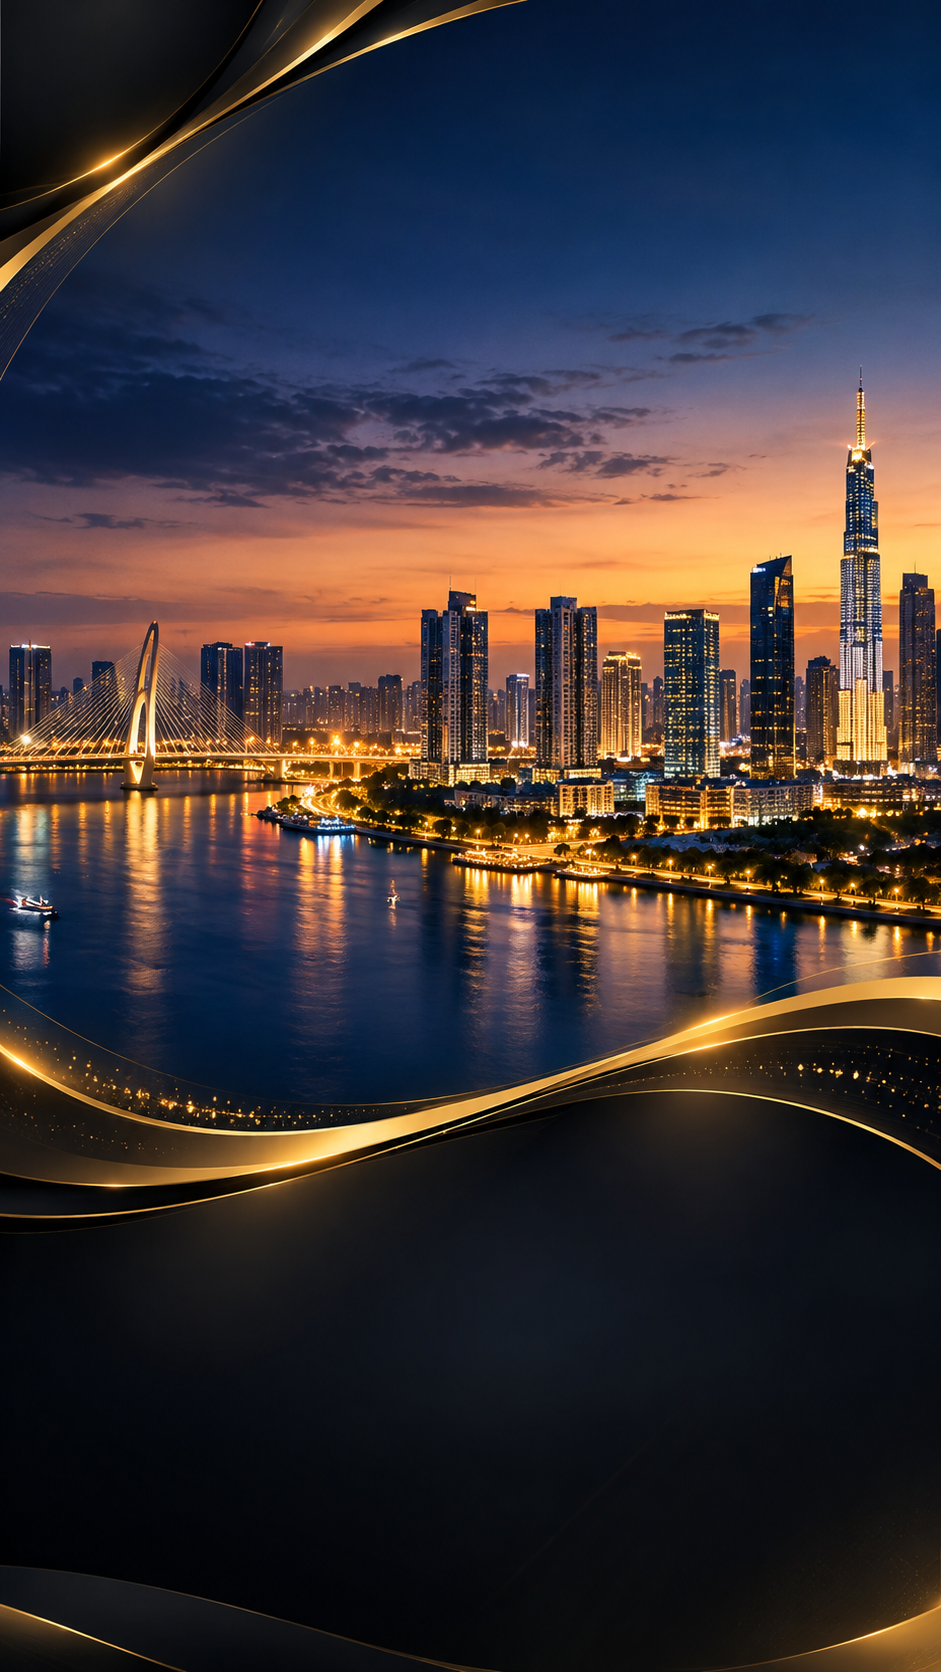
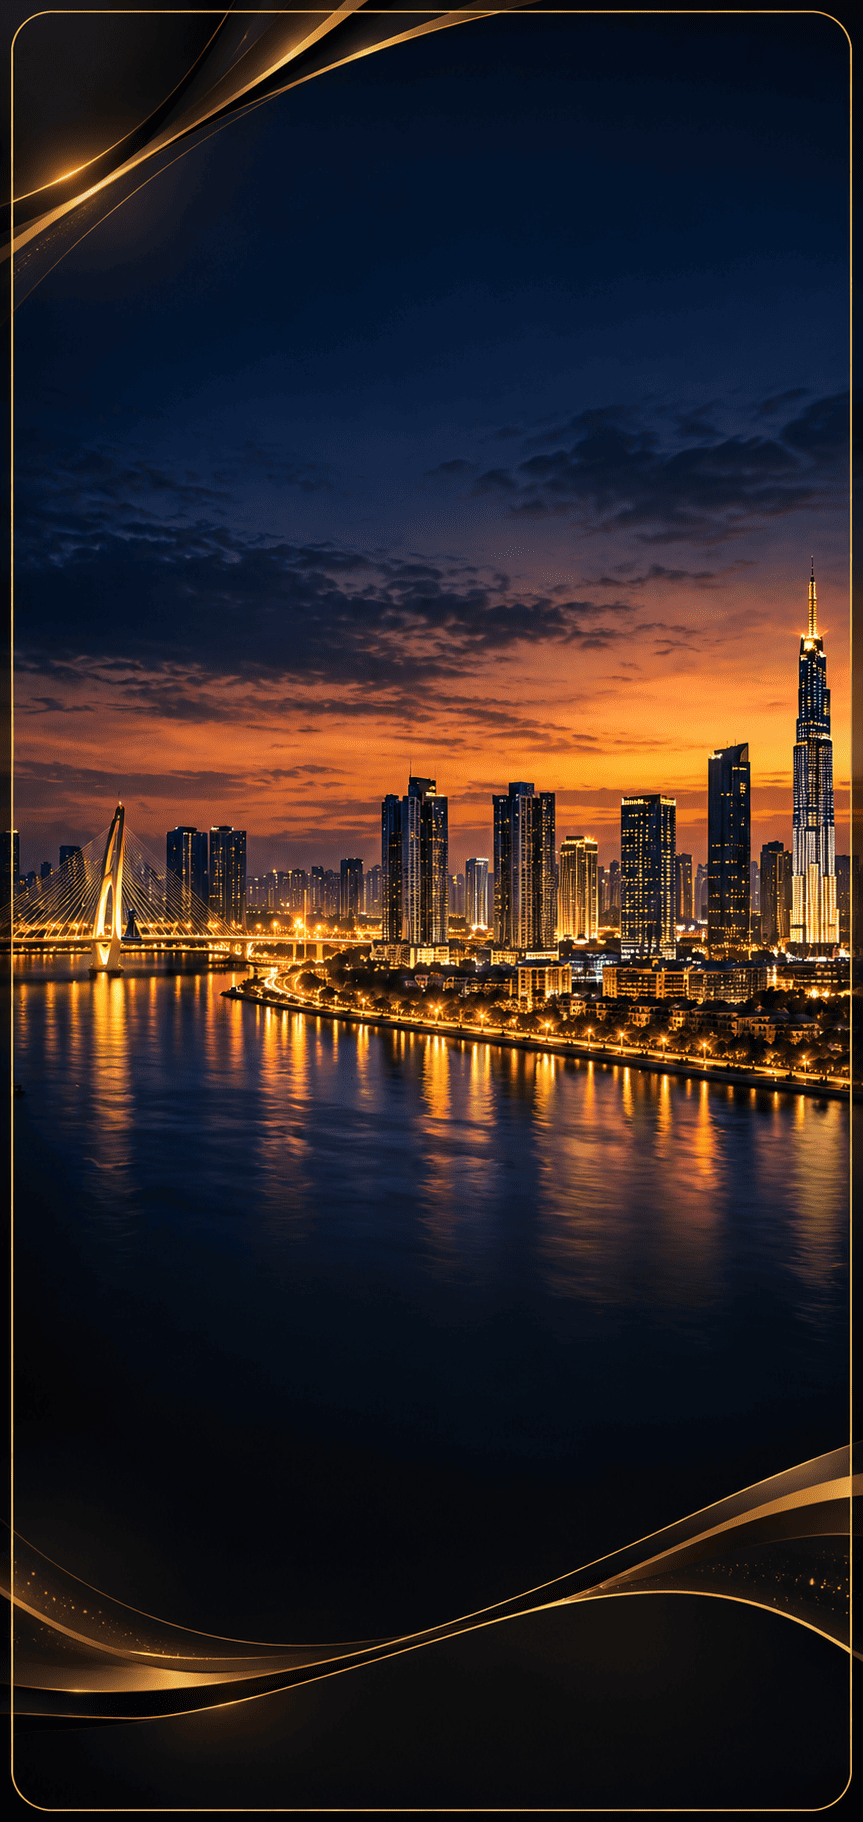
bio

diff --git a/bio/bio.css b/bio/bio.css
@@ -1,10 +1,10 @@
 :root {
     color-scheme: dark;
-    --bio-gold: #e6b942;
-    --bio-gold-bright: #ffd76b;
-    --bio-paper: #f7f1e4;
-    --bio-muted: #b7ad98;
-    --bio-panel: rgba(8, 8, 8, .94);
+    --bio-gold: #d4af37;
+    --bio-gold-bright: #f4d06f;
+    --bio-paper: #f4efe3;
+    --bio-muted: #d6cbbb;
+    --bio-panel: rgba(0, 0, 0, .96);
 }
 
 * {
@@ -19,8 +19,8 @@ body {
     place-items: center;
     overflow-x: hidden;
     color: var(--bio-paper);
-    font-family: 'DM Sans', sans-serif;
-    background: #090909;
+    font-family: 'Be Vietnam Pro', sans-serif;
+    background: #000;
 }
 
 .bio-card {
@@ -29,13 +29,13 @@ body {
     width: min(100%, 460px);
     padding: 18px 13px 14px;
     overflow: hidden;
-    border: 1px solid rgba(230, 185, 66, .52);
+    border: 1px solid rgba(212, 175, 55, .7);
     border-radius: 25px;
     background:
-        linear-gradient(rgba(7, 7, 7, .42), rgba(7, 7, 7, .58)),
+        linear-gradient(rgba(0, 0, 0, .68), rgba(0, 0, 0, .8)),
         url('../images/bio.png') center / cover no-repeat,
         var(--bio-panel);
-    box-shadow: 0 25px 90px rgba(0, 0, 0, .68), 0 0 30px rgba(230, 185, 66, .11);
+    box-shadow: 0 25px 90px rgba(0, 0, 0, .68), 0 0 22px rgba(212, 175, 55, .08);
     text-align: center;
 }
 
@@ -47,14 +47,14 @@ body {
     bottom: -34px;
     left: -15%;
     height: 72px;
-    border-top: 1px solid rgba(230, 185, 66, .48);
+    border-top: 1px solid rgba(212, 175, 55, .62);
     border-radius: 50% 50% 0 0;
     content: '';
 }
 
 .bio-card::after {
     bottom: -43px;
-    border-color: rgba(230, 185, 66, .24);
+    border-color: rgba(212, 175, 55, .38);
 }
 
 .profile {
@@ -87,7 +87,7 @@ body {
 }
 
 .brand strong {
-    font: 800 .66rem 'Manrope', sans-serif;
+    font: 800 .66rem 'Be Vietnam Pro', sans-serif;
     letter-spacing: .06em;
 }
 
@@ -104,7 +104,7 @@ body {
     right: 7px;
     margin: 0;
     color: var(--bio-gold-bright);
-    font: italic 600 .78rem/1.35 'Manrope', sans-serif;
+    font: italic 600 .78rem/1.35 'Be Vietnam Pro', sans-serif;
     text-align: right;
 }
 
@@ -116,8 +116,8 @@ body {
     padding: 4px;
     border: 2px solid var(--bio-gold-bright);
     border-radius: 50%;
-    background: #080808;
-    box-shadow: 0 0 0 3px rgba(230, 185, 66, .18), 0 0 28px rgba(230, 185, 66, .32);
+    background: #000;
+    box-shadow: 0 0 0 3px rgba(212, 175, 55, .3), 0 0 14px rgba(212, 175, 55, .18);
 }
 
 .avatar {
@@ -128,26 +128,10 @@ body {
     object-fit: cover;
 }
 
-.verified {
-    position: absolute;
-    right: -4px;
-    bottom: 10px;
-    display: grid;
-    width: 22px;
-    height: 22px;
-    place-items: center;
-    border: 2px solid #080808;
-    border-radius: 50%;
-    background: #1288f5;
-    color: #fff;
-    font-size: .78rem;
-    font-weight: 800;
-}
-
 h1 {
     margin: 0;
-    color: #fff;
-    font: 800 clamp(1.45rem, 6vw, 1.8rem)/1.15 'Manrope', sans-serif;
+    color: var(--bio-paper);
+    font: 700 clamp(1.65rem, 6vw, 2rem)/1.1 'Cormorant Garamond', serif;
     letter-spacing: -.045em;
 }
 
@@ -165,7 +149,7 @@ h1 {
 
 .intro {
     margin: 0 0 9px;
-    color: #e2d4b5;
+    color: var(--bio-muted);
     font-size: .73rem;
 }
 
@@ -174,8 +158,8 @@ h1 {
     grid-template-columns: repeat(4, minmax(0, 1fr));
     gap: 4px;
     padding: 9px 1px;
-    border-top: 1px solid rgba(230, 185, 66, .2);
-    border-bottom: 1px solid rgba(230, 185, 66, .2);
+    border-top: 1px solid rgba(212, 175, 55, .42);
+    border-bottom: 1px solid rgba(212, 175, 55, .42);
 }
 
 .service-point {
@@ -193,7 +177,7 @@ h1 {
 
 .service-point small {
     color: var(--bio-muted);
-    font-size: .52rem;
+    font-size: .57rem;
     line-height: 1.3;
 }
 
@@ -202,9 +186,9 @@ h1 {
     grid-template-columns: repeat(3, minmax(0, 1fr));
     margin: 10px 0;
     padding: 7px 3px;
-    border: 1px solid rgba(230, 185, 66, .48);
+    border: 1px solid rgba(212, 175, 55, .62);
     border-radius: 13px;
-    background: linear-gradient(110deg, rgba(230, 185, 66, .16), rgba(255, 255, 255, .025));
+    background: linear-gradient(110deg, rgba(212, 175, 55, .2), rgba(255, 255, 255, .06));
 }
 
 .stat {
@@ -217,7 +201,7 @@ h1 {
 }
 
 .stat + .stat {
-    border-left: 1px solid rgba(230, 185, 66, .22);
+    border-left: 1px solid rgba(212, 175, 55, .38);
 }
 
 .stat-icon {
@@ -228,7 +212,7 @@ h1 {
 
 .stat strong {
     color: var(--bio-gold-bright);
-    font: 800 .93rem 'Manrope', sans-serif;
+    font: 800 .93rem 'Be Vietnam Pro', sans-serif;
     text-align: left;
 }
 
@@ -252,10 +236,10 @@ h1 {
     align-items: center;
     gap: 7px;
     padding: 5px 10px;
-    border: 1px solid rgba(230, 185, 66, .45);
+    border: 1px solid rgba(212, 175, 55, .45);
     border-radius: 999px;
-    background: linear-gradient(100deg, #f8c744, #d69a16);
-    color: #18120a;
+    background: linear-gradient(110deg, #d4af37, #b8882c);
+    color: #111;
     font-size: .75rem;
     font-weight: 800;
     text-decoration: none;
@@ -291,14 +275,32 @@ h1 {
 
 .link-phone,
 .link-website {
-    border-color: rgba(255, 255, 255, .2);
-    background: linear-gradient(100deg, #242424, #090909);
-    color: #f4efe3;
+    border-color: rgba(212, 175, 55, .28);
+    background: linear-gradient(100deg, #181818, #050505);
+    color: var(--bio-paper);
+}
+
+.link-zalo {
+    border-color: rgba(212, 175, 55, .45);
+    background: linear-gradient(110deg, #d4af37, #b8882c);
+    color: #111;
+}
+
+.link-phone {
+    border-color: #25a244;
+    background: linear-gradient(100deg, #34c759, #248a3d);
+    color: #fff;
+}
+
+.link-website {
+    border-color: #fff;
+    background: linear-gradient(100deg, #fff, #e8e8e8);
+    color: #111;
 }
 
 .link-facebook {
-    border-color: #1687ff;
-    background: linear-gradient(100deg, #0879f9, #064bbd);
+    border-color: #1877f2;
+    background: linear-gradient(100deg, #3191ff, #1877f2);
     color: #fff;
 }
 
@@ -312,7 +314,7 @@ h1 {
     gap: 6px;
     margin: 0 0 6px;
     color: var(--bio-gold-bright);
-    font: 800 .65rem 'Manrope', sans-serif;
+    font: 800 .65rem 'Be Vietnam Pro', sans-serif;
     letter-spacing: .14em;
     text-transform: uppercase;
 }
@@ -321,7 +323,7 @@ h1 {
 .section-label::after {
     height: 1px;
     flex: 1;
-    background: linear-gradient(90deg, transparent, rgba(230, 185, 66, .58));
+    background: linear-gradient(90deg, transparent, rgba(212, 175, 55, .82));
     content: '';
 }
 
@@ -342,11 +344,11 @@ h1 {
 .project {
     min-width: 0;
     overflow: hidden;
-    border: 1px solid rgba(230, 185, 66, .42);
+    border: 1px solid rgba(212, 175, 55, .5);
     border-radius: 10px;
-    background: rgba(255, 255, 255, .04);
+    background: rgba(8, 8, 8, .88);
     color: var(--bio-paper);
-    text-align: left;
+    text-align: center;
     text-decoration: none;
     transition: border-color .18s ease, transform .18s ease;
 }
@@ -376,13 +378,13 @@ h1 {
 
 .project strong {
     margin-top: 5px;
-    font-size: .51rem;
+    font-size: .55rem;
 }
 
 .project small {
     padding-bottom: 5px;
     color: var(--bio-muted);
-    font-size: .45rem;
+    font-size: .49rem;
 }
 
 .quick-nav {
@@ -391,9 +393,9 @@ h1 {
     gap: 3px;
     margin-top: 9px;
     padding: 7px 2px;
-    border: 1px solid rgba(230, 185, 66, .32);
+    border: 1px solid rgba(212, 175, 55, .48);
     border-radius: 12px;
-    background: rgba(230, 185, 66, .035);
+    background: rgba(212, 175, 55, .1);
 }
 
 .quick-nav a {
@@ -411,7 +413,7 @@ h1 {
 
 .quick-nav small {
     color: var(--bio-muted);
-    font-size: .49rem;
+    font-size: .53rem;
     line-height: 1.3;
 }
 

diff --git a/bio/index.html b/bio/index.html
@@ -3,7 +3,7 @@
 <head>
     <meta charset="UTF-8">
     <meta name="viewport" content="width=device-width, initial-scale=1">
-    <meta name="theme-color" content="#090909">
+    <meta name="theme-color" content="#111111">
     <meta name="description" content="Kết nối với Nguyễn Trí Đức – Trí Đức Realty. Tư vấn bất động sản khu Tây và Nam TP.HCM, cập nhật dự án và hỗ trợ thông tin nhanh chóng.">
     <meta name="robots" content="index,follow">
     <link rel="canonical" href="https://triducrealty.com/bio/">
@@ -16,7 +16,7 @@
     <link rel="icon" type="image/svg+xml" href="../images/logo.svg">
     <link rel="preconnect" href="https://fonts.googleapis.com">
     <link rel="preconnect" href="https://fonts.gstatic.com" crossorigin>
-    <link href="https://fonts.googleapis.com/css2?family=DM+Sans:wght@400;500;600;700&family=Manrope:wght@500;600;700;800&display=swap" rel="stylesheet">
+    <link href="https://fonts.googleapis.com/css2?family=Be+Vietnam+Pro:wght@400;500;600;700;800&family=Cormorant+Garamond:wght@700&display=swap" rel="stylesheet">
     <link rel="stylesheet" href="bio.css">
 </head>
 <body>
@@ -29,7 +29,6 @@
             <p class="profile-note">An cư &amp; đầu tư<br>vững tương lai</p>
             <div class="avatar-wrap">
                 <img class="avatar" src="../images/avatar.webp" alt="Nguyễn Trí Đức – Trí Đức Realty" width="132" height="132">
-                <span class="verified" aria-label="Trí Đức Realty">✓</span>
             </div>
             <h1>Nguyễn Trí Đức</h1>
             <p class="role">Tư vấn bất động sản <span>·</span> Trí Đức Realty</p>
@@ -63,9 +62,9 @@
                     <img src="../images/arcadia/arcadia-at-lavila.webp" alt="" width="320" height="180" loading="lazy">
                     <strong>Arcadia At Lavila</strong><small>Quận 7</small>
                 </a>
-                <a class="project" href="https://triducrealty.com/vlasta.html">
-                    <img src="../images/vlasta/vlasta.webp" alt="" width="320" height="180" loading="lazy">
-                    <strong>Vlasta Premier</strong><small>Quận 7</small>
+                <a class="project" href="https://triducrealty.com/tt-genesis.html">
+                    <img src="../images/tt-genesis/tt-genesis-banner.webp" alt="" width="320" height="180" loading="lazy">
+                    <strong>TT Genesis</strong><small>Quận 7</small>
                 </a>
                 <a class="project" href="https://triducrealty.com/peakgarden.html">
                     <img src="../images/peakgarden/peakgarden.webp" alt="" width="320" height="180" loading="lazy">
